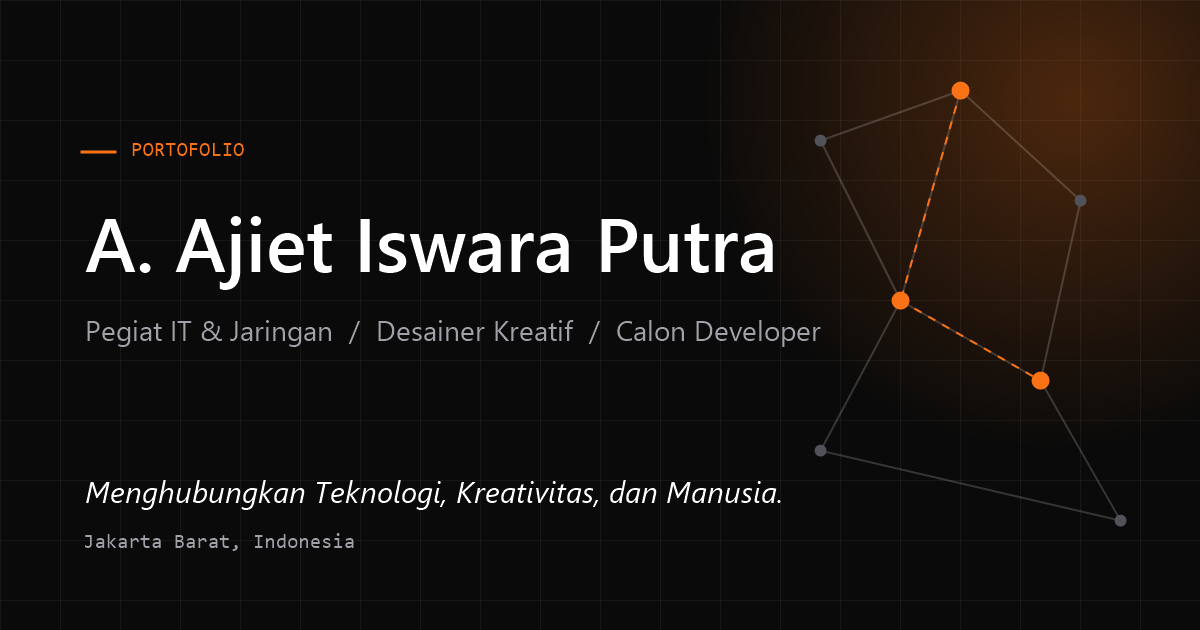
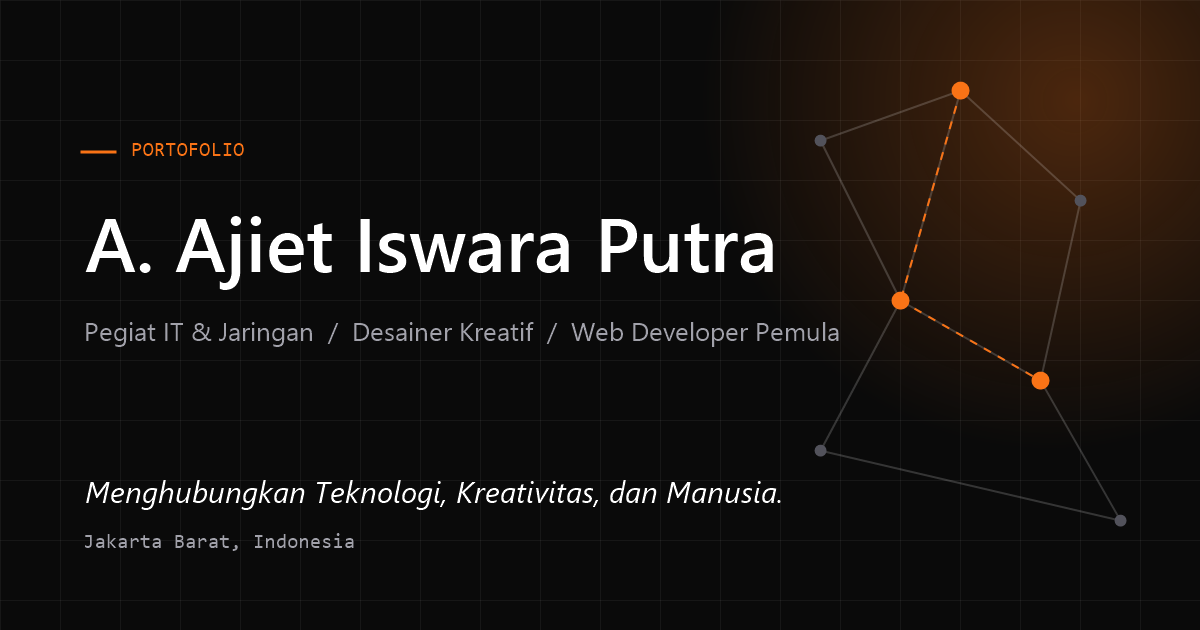
Replace "Calon Developer" with "Web Developer Pemula"
Updates the profile title, SEO metadata, structured data and the
social preview image.

Changed region(s): [[0.0617, 0.5127, 0.7092, 0.5429]]

diff --git a/index.html b/index.html
@@ -7,7 +7,7 @@
     <title>A. Ajiet Iswara Putra — Pegiat IT & Jaringan, Desainer Kreatif</title>
     <meta
       name="description"
-      content="Portofolio A. Ajiet Iswara Putra — Pegiat IT & Jaringan, Desainer Kreatif, dan Calon Developer dari Jakarta Barat, Indonesia. Praktik lab jaringan Cisco, karya kreatif, dan proyek web."
+      content="Portofolio A. Ajiet Iswara Putra — Pegiat IT & Jaringan, Desainer Kreatif, dan Web Developer Pemula dari Jakarta Barat, Indonesia. Praktik lab jaringan Cisco, karya kreatif, dan proyek web."
     />
     <meta name="author" content="A. Ajiet Iswara Putra" />
     <meta name="theme-color" content="#0A0A0A" />
@@ -18,7 +18,7 @@
     <meta property="og:type" content="website" />
     <meta property="og:site_name" content="A. Ajiet Iswara Putra" />
     <meta property="og:title" content="A. Ajiet Iswara Putra — Portofolio" />
-    <meta property="og:description" content="Menghubungkan Teknologi, Kreativitas, dan Manusia. Pegiat IT & Jaringan | Desainer Kreatif | Calon Developer." />
+    <meta property="og:description" content="Menghubungkan Teknologi, Kreativitas, dan Manusia. Pegiat IT & Jaringan | Desainer Kreatif | Web Developer Pemula." />
     <meta property="og:url" content="%VITE_SITE_URL%/" />
     <meta property="og:image" content="%VITE_SITE_URL%/og-image.png" />
     <meta property="og:image:width" content="1200" />
@@ -45,7 +45,7 @@
         "@context": "https://schema.org",
         "@type": "Person",
         "name": "A. Ajiet Iswara Putra",
-        "jobTitle": "Pegiat IT & Jaringan | Desainer Kreatif | Calon Developer",
+        "jobTitle": "Pegiat IT & Jaringan | Desainer Kreatif | Web Developer Pemula",
         "address": { "@type": "PostalAddress", "addressLocality": "Jakarta Barat", "addressCountry": "ID" },
         "alumniOf": "Universitas Islam Ahmad Dahlan Sinjai"
       }

diff --git a/src/data/profile.ts b/src/data/profile.ts
@@ -8,8 +8,8 @@ import type { Profile } from '../types/content'
 export const profile: Profile = {
   fullName: 'A. Ajiet Iswara Putra',
   shortName: 'Ajiet',
-  title: 'Pegiat IT & Jaringan | Desainer Kreatif | Calon Developer',
-  roles: ['Pegiat IT & Jaringan', 'Desainer Kreatif', 'Calon Developer'],
+  title: 'Pegiat IT & Jaringan | Desainer Kreatif | Web Developer Pemula',
+  roles: ['Pegiat IT & Jaringan', 'Desainer Kreatif', 'Web Developer Pemula'],
   tagline: 'Menghubungkan Teknologi, Kreativitas, dan Manusia.',
   location: 'Jakarta Barat, Indonesia',
   headline: 'Halo, saya Ajiet.',
